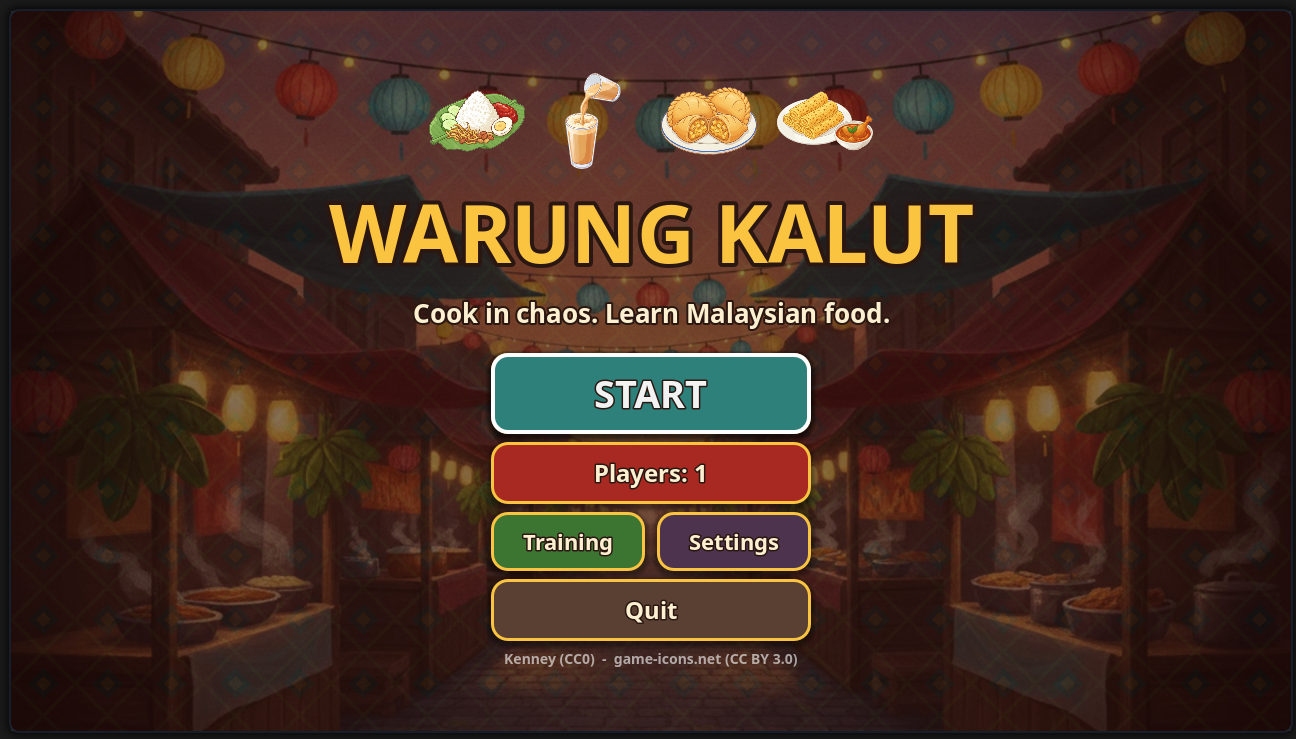
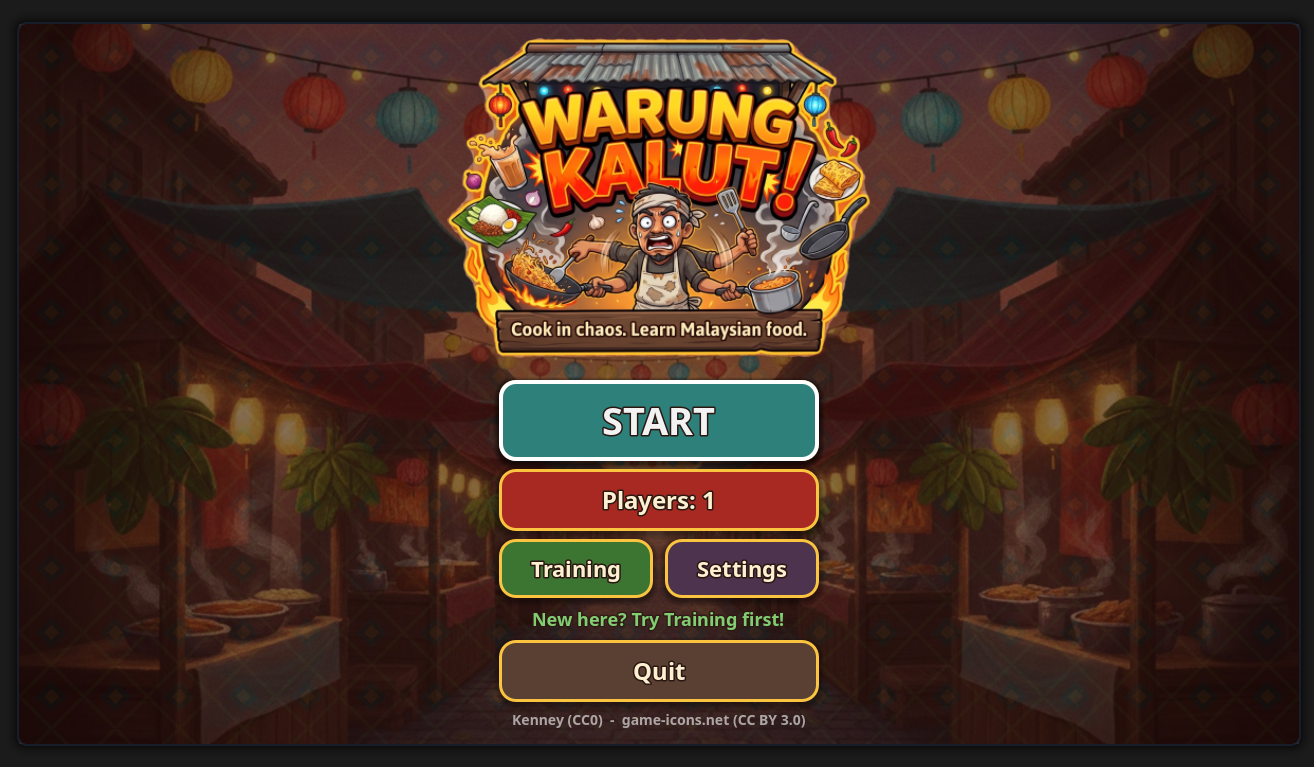
README: new screenshots, training and pause shots, contributor credits

diff --git a/README.md b/README.md
@@ -57,6 +57,8 @@ Food burns if you leave it, and burnt food can start a fire (hold Q to put it ou
 
 ![Gameplay](docs/screenshots/gameplay.png)
 
+![Training level](docs/screenshots/training.png)
+
 ![Level select](docs/screenshots/levels.png)
 
 ## Controls (defaults)
@@ -74,8 +76,9 @@ Food burns if you leave it, and burnt food can start a fire (hold Q to put it ou
 All of these can be changed in Settings.
 
 <details>
-<summary>Settings screenshots</summary>
+<summary>Pause and settings screenshots</summary>
 
+![Pause menu](docs/screenshots/pause.png)
 ![Player 1 controls](docs/screenshots/settings-player1.png)
 ![Player 2 controls](docs/screenshots/settings-player2.png)
 ![General](docs/screenshots/settings-general.png)
@@ -106,7 +109,7 @@ This is a jam project. The automated playtest passes, but the game has had limit
 
 ## Credits and licences
 
-- **Game design and code:** Blakie (K1r4sh0) and friends, built with Claude Code as an AI pair-programmer.
+- **Game design and code:** Blakie (K1r4sh0) and NikDemirel12 (GitHub contributor: police chase, music settings, new title logo).
 - **Engine:** Godot 4.7 (MIT).
 - **3D models and UI:** Kenney (CC0): Food Kit, Mini Shop, Blocky Characters, Skyboxes, UI Pack, Input Prompts.
 - **Icons:** game-icons.net (CC BY 3.0), including Lorc and Andy Meneely.
